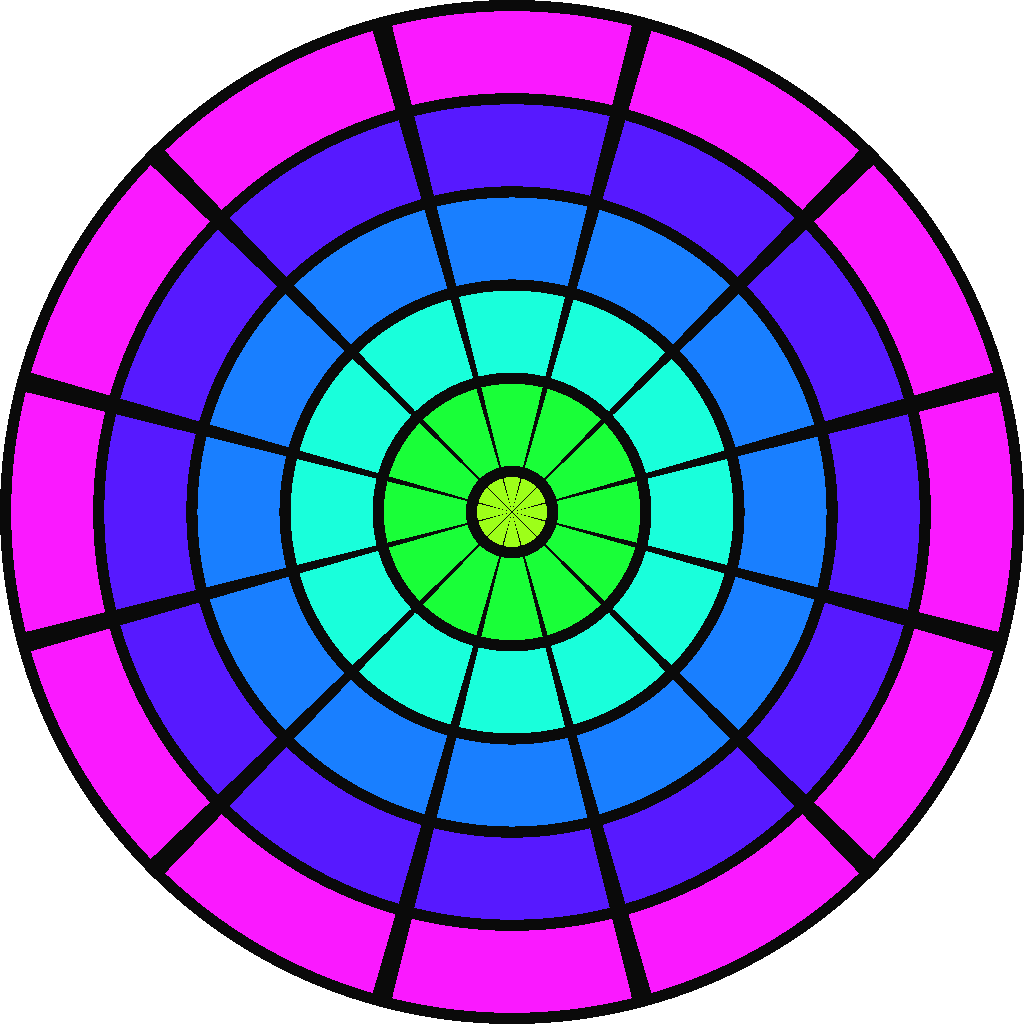
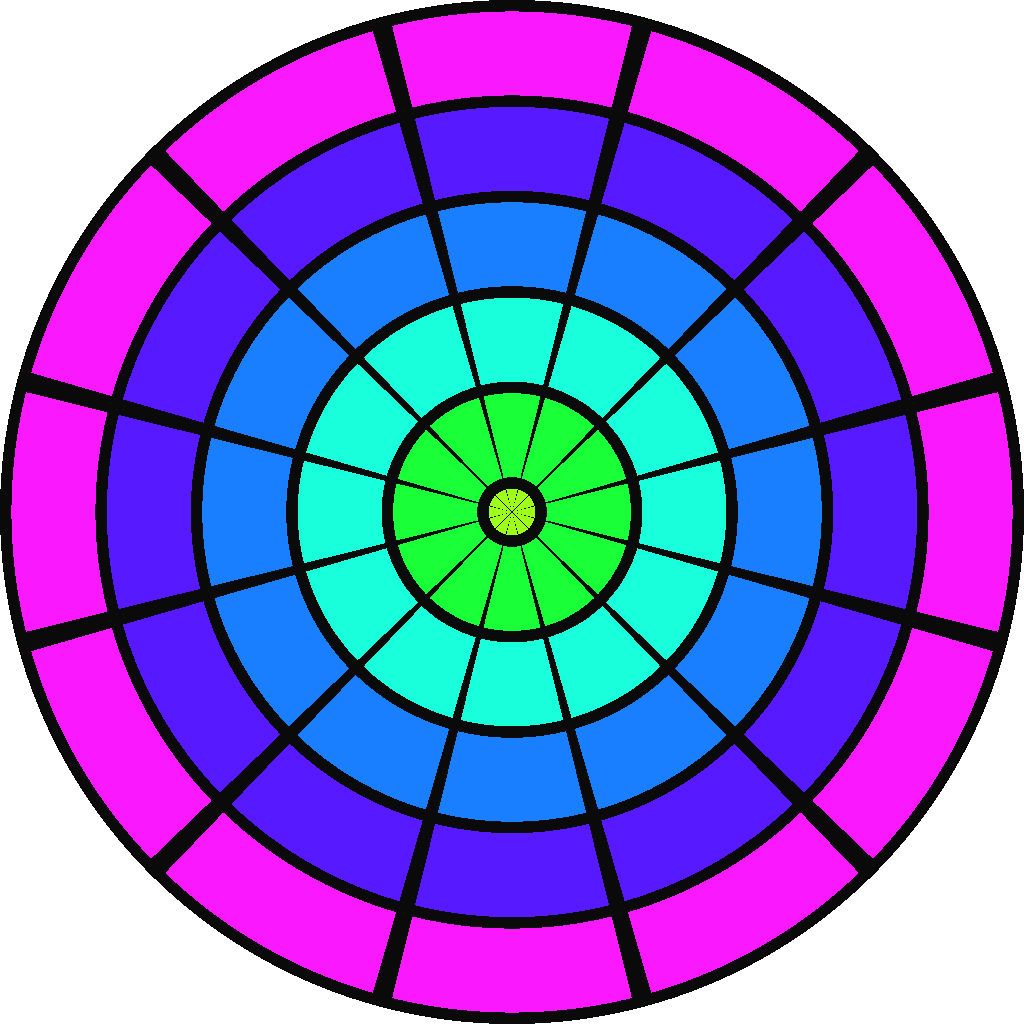
feat(scenes): extend ring-spoke disc to the true ISCO (r = 0.62)
With the metric-radius disc boundary (PR #111) merged, inner_radius means
Boyer-Lindquist r, so the previous Cartesian-compensated 0.795 can drop to
0.62, just outside the prograde ISCO (0.618 at a = 0.499). The absolute
band grid moves to 0.62-8.0 accordingly (both bitmaps regenerated so
colors keep meaning the same radius across scenes).

diff --git a/scripts/generate_showcase_textures.py b/scripts/generate_showcase_textures.py
@@ -23,7 +23,7 @@ SPOKE_HALF_WIDTH_RAD = 0.02
 
 # Global band grid in absolute disc radius (units of r_s): shared by all
 # scenes so colors align across renders.
-R_MIN = 0.795
+R_MIN = 0.62
 R_MAX = 8.0
 N_BANDS = 8
 BAND_WIDTH = (R_MAX - R_MIN) / N_BANDS
@@ -31,7 +31,7 @@ RING_GAP_FRACTION = 0.12  # dark separator inside each band
 
 # (filename, scene annulus inner, outer)
 VARIANTS = [
-    ("resources/ringspoke.png", 0.795, 8.0),
+    ("resources/ringspoke.png", 0.62, 8.0),
     ("resources/ringspoke_a0.png", 3.05, 8.0),
 ]
 
